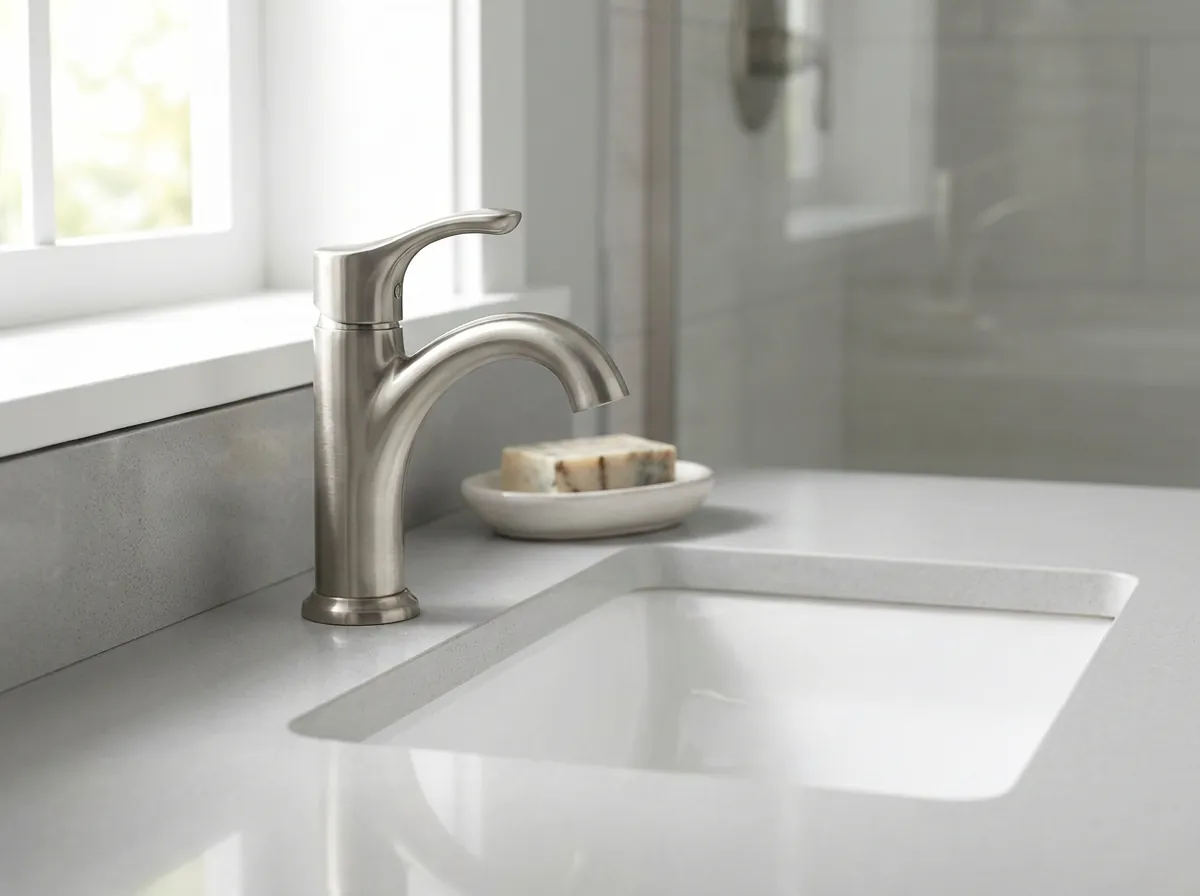
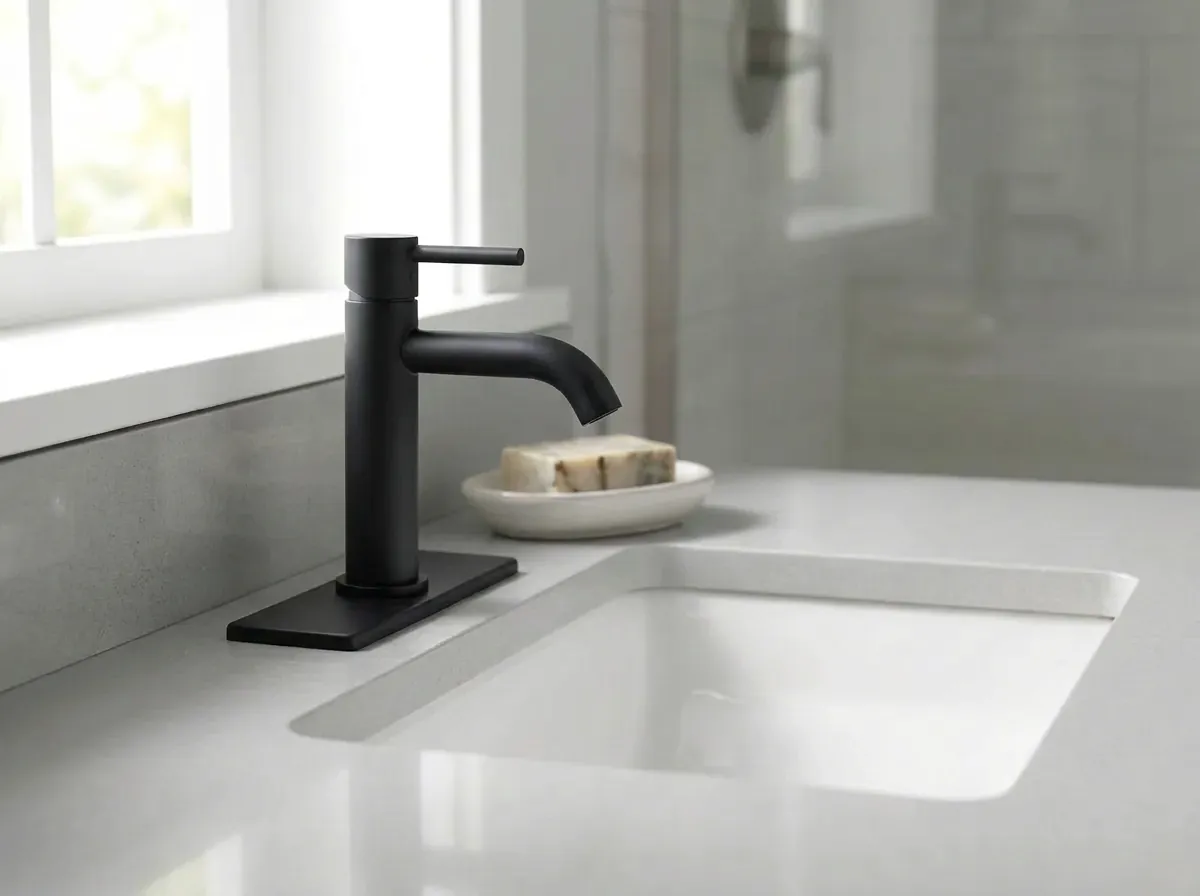
What We Do: corrected before/after photos, power washing last
Nine pairs redone so each before and after is the same scene with a
physically compatible fixture: bath faucet (single-lever on a deck plate
over the same three holes), showerhead (new square head and arm), door
handle (lever in the same bore), cabinet door (same door, slight sag),
toilet paper holder (odd hook removed), towel bar and full-door repaint
(new scenes), cabinet hardware (missing pull restored), window trim (one
profile). Old files kept in retired-cx4/.

seed_what_we_do.js gains --refresh/--undo-refresh: new pairs are created
once, the pairs they replace go to the Admin library (never deleted), and
sortOrder follows the manifest with the last item at 1000.

test_recent_work: check "412 Maple" rather than a bare "412", which random
ids occasionally contain.

diff --git a/scripts/ops/seed_what_we_do.js b/scripts/ops/seed_what_we_do.js
@@ -5,6 +5,19 @@
  *   MONGO_URI=... S3_BUCKET=... node scripts/ops/seed_what_we_do.js <imagesDir> [--backup file.json] [--confirm]
  *   MONGO_URI=... node scripts/ops/seed_what_we_do.js --restore file.json [--confirm]
  *
+ * CX 4.1 refresh (2026-10-31): replace some pairs with corrected photographs
+ * and put the collection in manifest order.
+ *
+ *   MONGO_URI=... S3_BUCKET=... node scripts/ops/seed_what_we_do.js <imagesDir> --refresh slug,slug --backup file.json [--confirm]
+ *   MONGO_URI=... node scripts/ops/seed_what_we_do.js --undo-refresh file.json [--confirm]
+ *
+ *  - each listed slug gets a NEW pair (internalNote "cx41-seed:<slug>", created
+ *    once); the pair it replaces is unpublished to the Admin library, never deleted;
+ *  - every seeded pair takes its manifest position as sortOrder; the LAST item
+ *    gets 1000, so pairs uploaded later in Admin (sortOrder 0) never push it off the end;
+ *  - --undo-refresh republishes the old pairs, unpublishes the new ones and puts
+ *    every sortOrder back, from the backup written first.
+ *
  * <imagesDir> holds manifest.json and <slug>-before.webp / <slug>-after.webp.
  *
  * Safe by construction:
@@ -96,6 +109,95 @@ async function seed(dir) {
   }
 }
 
+async function refresh(dir, slugs) {
+  const service = require("../../utils/recentWork/workPhotoService");
+  const WorkPhoto = require("../../models/WorkPhoto");
+  const manifest = JSON.parse(fs.readFileSync(path.join(dir, "manifest.json"), "utf8")).map((item, index) => ({ ...item, index }));
+  const bySlug = new Map(manifest.map((item) => [item.slug, item]));
+  for (const slug of slugs) {
+    if (!bySlug.has(slug)) throw new Error(`not in manifest: ${slug}`);
+    for (const side of ["before", "after"]) {
+      if (!fs.existsSync(path.join(dir, `${slug}-${side}.webp`))) throw new Error(`missing ${slug}-${side}.webp`);
+    }
+  }
+  const seeds = await WorkPhoto.find({ internalNote: /^cx41?-seed:/, deletedAt: null }).select("_id internalNote status sortOrder title").lean();
+  const current = (slug, prefix) => seeds.find((p) => p.internalNote === `${prefix}-seed:${slug}`);
+  const sortFor = (item) => (item.index === manifest.length - 1 ? 1000 : item.index);
+
+  const toCreate = slugs.filter((slug) => !current(slug, "cx41"));
+  const toRetire = slugs.map((slug) => current(slug, "cx4")).filter((p) => p && p.status === "published");
+  console.log(`pairs to create: ${toCreate.join(", ") || "none"}`);
+  console.log(`old pairs to move to the Admin library: ${toRetire.map((p) => p.internalNote).join(", ") || "none"}`);
+  for (const item of manifest) {
+    const live = current(item.slug, slugs.includes(item.slug) ? "cx41" : "cx4") || current(item.slug, "cx4");
+    console.log(`  ${String(sortFor(item)).padStart(4)}  ${item.slug}${live ? ` (now ${live.sortOrder})` : " (new)"}`);
+  }
+  if (!CONFIRM) {
+    console.log("DRY RUN. Re-run with --confirm (and --backup file.json) to write.");
+    return;
+  }
+  const backupPath = valueOf("--backup");
+  if (!backupPath) throw new Error("--backup file.json is required");
+  fs.writeFileSync(backupPath, JSON.stringify({ at: new Date().toISOString(), seeds, retired: toRetire.map((p) => String(p._id)) }, null, 2));
+  console.log(`backup written: ${backupPath}`);
+
+  const actor = { userId: null, name: "Profixter (illustrative examples)" };
+  const created = {};
+  for (const slug of toCreate) {
+    const item = bySlug.get(slug);
+    const photo = await service.createPairFromBuffers({
+      beforeBuffer: fs.readFileSync(path.join(dir, `${slug}-before.webp`)),
+      afterBuffer: fs.readFileSync(path.join(dir, `${slug}-after.webp`)),
+      uploader: { uploaderType: "admin", role: "admin" },
+      actor,
+      fields: {
+        title: item.title,
+        caption: item.caption,
+        category: CATEGORY_FOR_SLUG[slug] || "general-handyman",
+        group: item.category,
+        illustrative: true,
+        publishNow: true,
+        sortOrder: sortFor(item),
+        internalNote: `cx41-seed:${slug}`,
+      },
+    });
+    created[slug] = photo._id;
+    console.log(`created ${slug} -> ${photo._id} (${photo.status})`);
+  }
+  for (const old of toRetire) {
+    await service.unpublish(old._id, actor);
+    console.log(`moved to library: ${old._id} ${old.internalNote}`);
+  }
+  // Manifest order for every pair now on the site.
+  const after = await WorkPhoto.find({ internalNote: /^cx41?-seed:/, deletedAt: null, status: "published" }).select("_id internalNote sortOrder").lean();
+  for (const photo of after) {
+    const item = bySlug.get(photo.internalNote.replace(/^cx41?-seed:/, ""));
+    if (item && photo.sortOrder !== sortFor(item)) {
+      await service.updateDetails(photo._id, { sortOrder: sortFor(item) });
+      console.log(`sortOrder ${item.slug}: ${photo.sortOrder} -> ${sortFor(item)}`);
+    }
+  }
+}
+
+async function undoRefresh(file) {
+  const service = require("../../utils/recentWork/workPhotoService");
+  const WorkPhoto = require("../../models/WorkPhoto");
+  const backup = JSON.parse(fs.readFileSync(file, "utf8"));
+  const knownIds = new Set(backup.seeds.map((p) => String(p._id)));
+  const added = await WorkPhoto.find({ internalNote: /^cx41-seed:/, deletedAt: null, status: "published" }).select("_id internalNote").lean();
+  const newer = added.filter((p) => !knownIds.has(String(p._id)));
+  console.log(`new pairs to unpublish: ${newer.length}; old pairs to republish: ${backup.retired.length}; sort orders to restore: ${backup.seeds.length}`);
+  if (!CONFIRM) {
+    console.log("DRY RUN. Re-run with --confirm to undo.");
+    return;
+  }
+  const actor = { userId: null, name: "Profixter (illustrative examples)" };
+  for (const p of newer) await service.unpublish(p._id, actor);
+  for (const id of backup.retired) await service.publish(id, actor);
+  for (const p of backup.seeds) await WorkPhoto.updateOne({ _id: p._id }, { $set: { sortOrder: p.sortOrder } });
+  console.log("undone");
+}
+
 async function restore(file) {
   const WorkPhoto = require("../../models/WorkPhoto");
   const backup = JSON.parse(fs.readFileSync(file, "utf8"));
@@ -117,7 +219,11 @@ async function restore(file) {
   await mongoose.connect(process.env.MONGO_URI);
   try {
     const restoreFile = valueOf("--restore");
-    if (restoreFile) await restore(restoreFile);
+    const undoFile = valueOf("--undo-refresh");
+    const refreshSlugs = valueOf("--refresh");
+    if (undoFile) await undoRefresh(undoFile);
+    else if (refreshSlugs) await refresh(args[0], refreshSlugs.split(",").map((s) => s.trim()).filter(Boolean));
+    else if (restoreFile) await restore(restoreFile);
     else if (args[0] && !args[0].startsWith("--")) await seed(args[0]);
     else throw new Error("usage: seed_what_we_do.js <imagesDir> [--backup file.json] [--confirm] | --restore file.json [--confirm]");
   } finally {

diff --git a/scripts/test_recent_work.js b/scripts/test_recent_work.js
@@ -1097,7 +1097,8 @@ async function run() {
       assert.equal(res.body.photos[0].location, "Babylon, NY", "the town is allowed");
 
       for (const secret of [
-        "412", "Maple", "Apt 3B", "11702", "27777777",
+        // "412 Maple", not "412": a bare 3-digit number turns up in random ids and signed URLs.
+        "412 Maple", "Maple", "Apt 3B", "11702", "27777777",
         "member@example.com", "Member Person", "+16315550003",
       ]) {
         assert.ok(!body.includes(secret), `public feed leaked "${secret}"`);

diff --git a/assets/what-we-do/README.md b/assets/what-we-do/README.md
@@ -12,3 +12,15 @@ Seed or re-seed production (dry run unless --confirm; idempotent):
 Restore the photos the seed unpublished:
 
     MONGO_URI=... node scripts/ops/seed_what_we_do.js --restore backup.json --confirm
+
+## CX 4.1 corrections (2026-10-31)
+
+The owner reviewed the pairs on a phone. Nine were corrected; every new image
+was made from its partner image, so the scene, camera and geometry match:
+bath-faucet, showerhead, door-handle, cabinet-door, bath-accessories (hook
+removed), towel-bar (new scene), door-paint (new full-door scene),
+cabinet-hardware (third pull restored), trim-repair (same trim profile).
+The replaced files are kept in `retired-cx4/`. Power washing is now last.
+
+    MONGO_URI=... S3_BUCKET=... node scripts/ops/seed_what_we_do.js assets/what-we-do --refresh <slugs> --backup refresh.json --confirm
+    MONGO_URI=... node scripts/ops/seed_what_we_do.js --undo-refresh refresh.json --confirm
